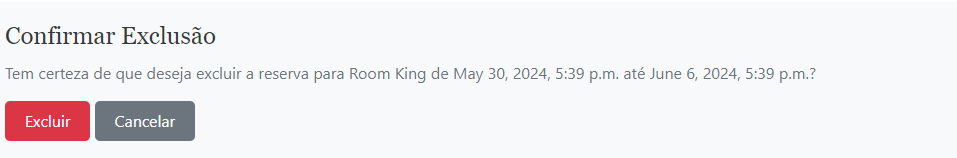
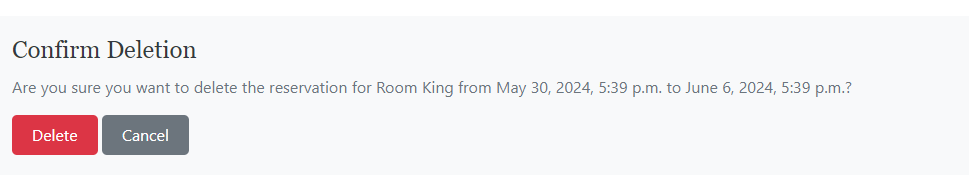
fix delete template

Changed region(s): [[0.0, 0.4304, 0.8788, 0.5316], [0.0, 0.5823, 0.2121, 0.9114], [0.0, 0.1519, 0.2424, 0.3291]]

diff --git a/bookings/templates/bookings/confirm_delete.html b/bookings/templates/bookings/confirm_delete.html
@@ -2,12 +2,12 @@
 {% load static %}
 {% block content %}
 <div class="delete-container">
-    <h2 class="delete-title">Confirmar Exclusão</h2>
-    <p class="delete-message">Tem certeza de que deseja excluir a reserva para {{ booking.room.name }} de {{ booking.start_time }} até {{ booking.end_time }}?</p>
+    <h2 class="delete-title">Confirm Deletion</h2>
+    <p class="delete-message">Are you sure you want to delete the reservation for {{ booking.room.name }} from {{ booking.start_time }} to {{ booking.end_time }}?</p>
     <form method="post">
         {% csrf_token %}
-        <button type="submit" class="btn btn-danger">Excluir</button>
-        <a href="{% url 'user_bookings' %}" class="btn btn-secondary">Cancelar</a>
+        <button type="submit" class="btn btn-danger">Delete</button>
+        <a href="{% url 'user_bookings' %}" class="btn btn-secondary">Cancel</a>
     </form>
 </div>
 {% endblock %}

diff --git a/README.md b/README.md
@@ -201,6 +201,24 @@ Used for dividers and borders.
 
   ![About Jeri](https://github.com/dhardi/hoteljeri/blob/main/static/image/about_jeri.PNG)
 
+ # Technologies Used 
+
+- **HTML**: Used for the main site content.
+- **CSS**: Used for the main site design and layout.
+- **Bootstrap**: Used as the front-end CSS framework for modern responsiveness and pre-built components.
+- **JavaScript**: Used for user interaction on the site .
+- **Python**: Used as the back-end programming language.
+- **Git**: Used for version control (git add, git commit, git push).
+- **GitHub**: Used for secure online code storage.
+- **Gitpod**: Used as a cloud-based IDE for development.
+- **Django**: Used as the Python framework for the site.
+- **PostgreSQL**: Used as the relational database management.
+- **PostgreSQL from Code Institute**: Used as the Postgres database.
+- **Heroku**: Used for hosting the deployed back-end site.
+- **Website Mockup Generator**: Used to create the mockup image used in my readme.
+- **Balsamiq**: Used to design my site wireframes.
+
+ 
   # Deployment
 
 This website is deployed to Heroku from a GitHub repository. The following steps were taken:
@@ -271,3 +289,16 @@ After performing the standard Git add, commit, and push to GitHub, you can now t
 
 - git push heroku main
 
+## Credits
+
+Credits to:
+- **Brasil Javascript Community**
+- **Brasil Django Community**
+- **Stack Overflow Community**
+- **Slack Community**
+- **Thomas K**, Alumni Lead
+- **My Tutor and Friend Davide Bowers**
+
+
+
+Special Thanks to those who helped me when I had broken my code a thousand times and My family for Support.
